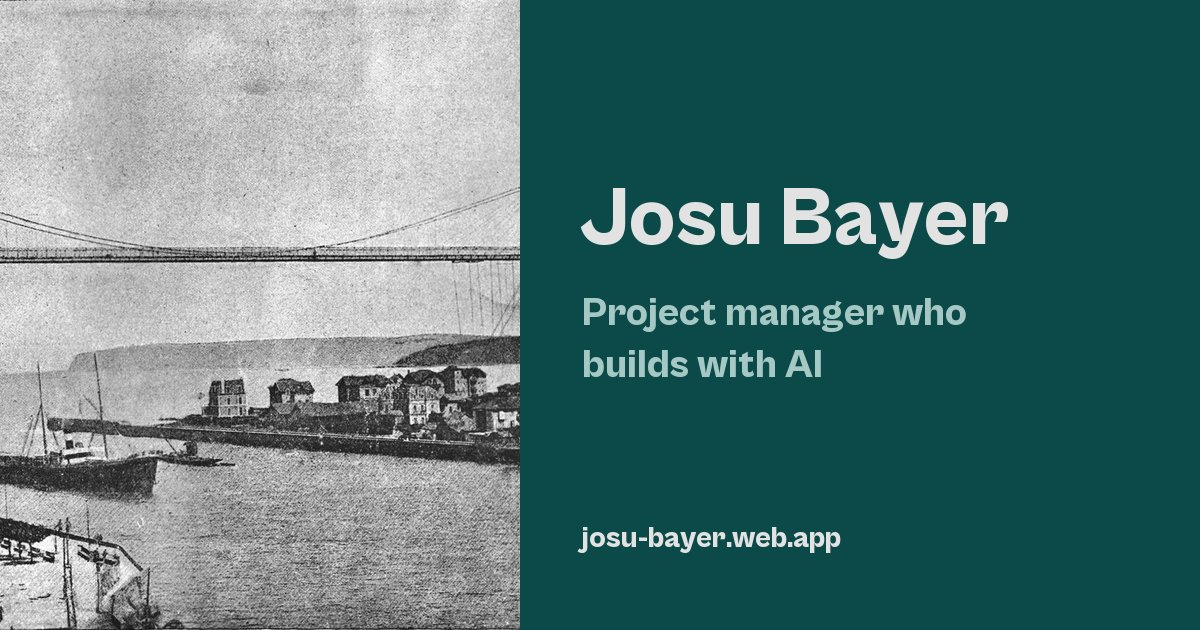
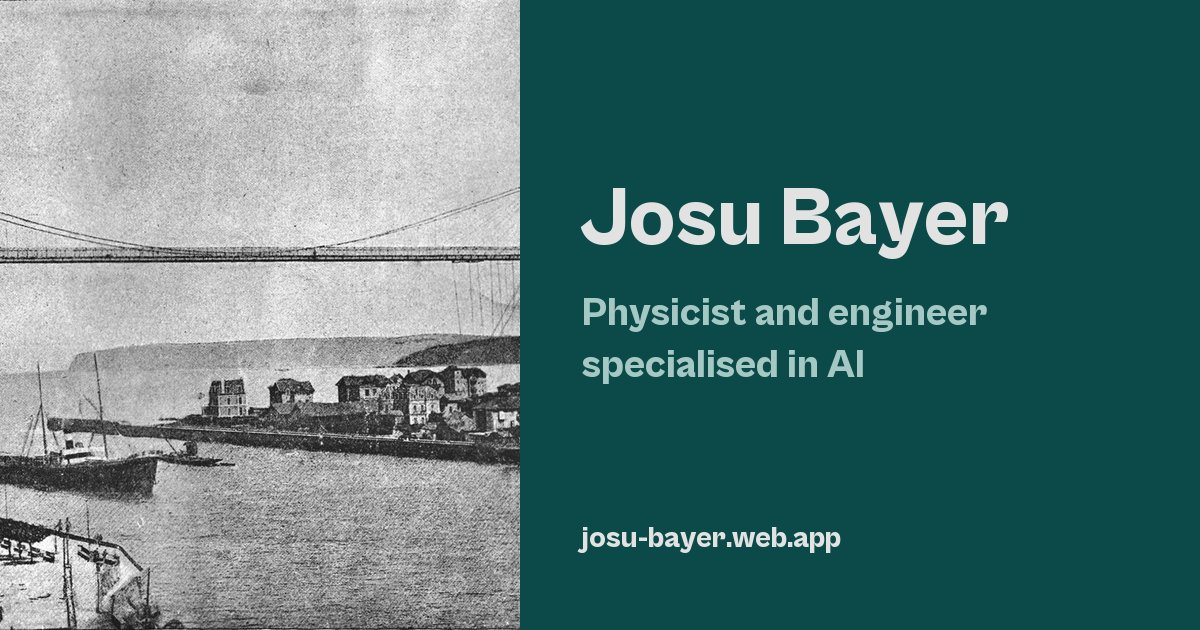
Site: simpler About text, updated description and share image

Changed region(s): [[0.4625, 0.4825, 0.8325, 0.6032]]

diff --git a/site/public/es/index.html b/site/public/es/index.html
@@ -4,7 +4,7 @@
 <meta charset="utf-8">
 <meta name="viewport" content="width=device-width, initial-scale=1">
 <title>Josu Bayer, físico e ingeniero especializado en IA</title>
-<meta name="description" content="Físico e ingeniero electrónico de Bizkaia. Proyectos liderados, investigación y pequeñas aplicaciones.">
+<meta name="description" content="Físico e ingeniero electrónico de Bizkaia. Investigación en IA, proyectos coordinados y pequeñas aplicaciones.">
 <meta name="theme-color" content="#0c4a4a" media="(prefers-color-scheme: light)">
 <meta name="theme-color" content="#0e1819" media="(prefers-color-scheme: dark)">
 <meta name="color-scheme" content="light dark">
@@ -15,7 +15,7 @@
 <meta property="og:type" content="profile">
 <meta property="og:site_name" content="Josu Bayer">
 <meta property="og:title" content="Josu Bayer, físico e ingeniero especializado en IA">
-<meta property="og:description" content="Físico e ingeniero electrónico de Bizkaia. Proyectos liderados, investigación y pequeñas aplicaciones.">
+<meta property="og:description" content="Físico e ingeniero electrónico de Bizkaia. Investigación en IA, proyectos coordinados y pequeñas aplicaciones.">
 <meta property="og:url" content="https://josu-bayer.web.app/es/">
 <meta property="og:image" content="https://josu-bayer.web.app/img/og.jpg">
 <meta property="og:image:width" content="1200">
@@ -28,7 +28,7 @@
 <meta property="profile:last_name" content="Bayer Agirre">
 <meta name="twitter:card" content="summary_large_image">
 <meta name="author" content="Josu Bayer Agirre">
-<script type="application/ld+json">{"@context": "https://schema.org", "@type": "Person", "name": "Josu Bayer Agirre", "alternateName": "Josu Bayer", "url": "https://josu-bayer.web.app/", "image": "https://josu-bayer.web.app/img/josu-2026-12.jpg", "jobTitle": "Físico e ingeniero electrónico, máster en IA", "email": "mailto:bayer.josu@gmail.com", "address": {"@type": "PostalAddress", "addressRegion": "Bizkaia", "addressCountry": "ES"}, "alumniOf": {"@type": "CollegeOrUniversity", "name": "UPV/EHU"}, "sameAs": ["https://github.com/josu-bayer", "https://www.linkedin.com/in/josu-bayer-agirre-090678208/"]}</script>
+<script type="application/ld+json">{"@context": "https://schema.org", "@type": "Person", "name": "Josu Bayer Agirre", "alternateName": "Josu Bayer", "url": "https://josu-bayer.web.app/", "image": "https://josu-bayer.web.app/img/josu-2026-12.jpg", "jobTitle": "Físico e ingeniero electrónico, máster en IA, coordinación de proyectos", "email": "mailto:bayer.josu@gmail.com", "address": {"@type": "PostalAddress", "addressRegion": "Bizkaia", "addressCountry": "ES"}, "alumniOf": {"@type": "CollegeOrUniversity", "name": "UPV/EHU"}, "sameAs": ["https://github.com/josu-bayer", "https://www.linkedin.com/in/josu-bayer-agirre-090678208/"]}</script>
 <link rel="alternate" hreflang="en" href="https://josu-bayer.web.app/">
 <link rel="alternate" hreflang="eu" href="https://josu-bayer.web.app/eu/">
 <link rel="alternate" hreflang="es" href="https://josu-bayer.web.app/es/">
@@ -55,9 +55,9 @@
   <h1 class="hero">Investigo y construyo<br>inteligencia artificial.</h1>
   <h2 class="sh rv">Sobre mí</h2>
   <div class="story rv">
-    <p><mark class="hl3">Soy Josu Bayer</mark>, físico e ingeniero electrónico de <mark class="hl2">Bizkaia</mark>. Hice un doble grado en la UPV/EHU y después un <mark class="hl1">máster en IA y tecnología del lenguaje</mark>. Me dedico a la <mark class="hl1">gestión de proyectos</mark>, y codirigí <mark class="hl2">ENEF 2025</mark>, un congreso nacional para 200 estudiantes de física, para el que conseguí <mark class="hl1">más de 80.000 €</mark>. Las aplicaciones de abajo las he construido yo y las uso.</p>
+    <p><mark class="hl3">Soy Josu Bayer</mark>, físico e ingeniero electrónico de <mark class="hl2">Bizkaia</mark>. Hice un doble grado en la UPV/EHU y después un <mark class="hl1">máster en IA y tecnología del lenguaje</mark>. Además de la investigación, disfruto <mark class="hl1">organizando y coordinando proyectos</mark>. Codirigí <mark class="hl2">ENEF 2025</mark>, un congreso nacional para 200 estudiantes de física, y entre todos reunimos <mark class="hl1">más de 80.000 €</mark>. Las aplicaciones de abajo las he construido yo y las uso.</p>
   </div>
-  <p class="cta rv"><a href="#contact"><mark class="hl1">¿Buscas a alguien que sepa de IA y pueda dirigir también el proyecto? Saluda.</mark></a></p>
+  <p class="cta rv"><a href="#contact"><mark class="hl1">¿Buscas a alguien que sepa de IA y que además disfrute organizando proyectos? Saluda.</mark></a></p>
 </section>
 
 <figure class="band" data-drift>

diff --git a/site/public/eu/index.html b/site/public/eu/index.html
@@ -4,7 +4,7 @@
 <meta charset="utf-8">
 <meta name="viewport" content="width=device-width, initial-scale=1">
 <title>Josu Bayer, AAn espezializatutako fisikaria eta ingeniaria</title>
-<meta name="description" content="Bizkaiko fisikaria eta ingeniari elektronikoa. Zuzendutako proiektuak, ikerketa eta aplikazio txikiak.">
+<meta name="description" content="Bizkaiko fisikaria eta ingeniari elektronikoa. AAren ikerketa, koordinatutako proiektuak eta aplikazio txikiak.">
 <meta name="theme-color" content="#0c4a4a" media="(prefers-color-scheme: light)">
 <meta name="theme-color" content="#0e1819" media="(prefers-color-scheme: dark)">
 <meta name="color-scheme" content="light dark">
@@ -15,7 +15,7 @@
 <meta property="og:type" content="profile">
 <meta property="og:site_name" content="Josu Bayer">
 <meta property="og:title" content="Josu Bayer, AAn espezializatutako fisikaria eta ingeniaria">
-<meta property="og:description" content="Bizkaiko fisikaria eta ingeniari elektronikoa. Zuzendutako proiektuak, ikerketa eta aplikazio txikiak.">
+<meta property="og:description" content="Bizkaiko fisikaria eta ingeniari elektronikoa. AAren ikerketa, koordinatutako proiektuak eta aplikazio txikiak.">
 <meta property="og:url" content="https://josu-bayer.web.app/eu/">
 <meta property="og:image" content="https://josu-bayer.web.app/img/og.jpg">
 <meta property="og:image:width" content="1200">
@@ -28,7 +28,7 @@
 <meta property="profile:last_name" content="Bayer Agirre">
 <meta name="twitter:card" content="summary_large_image">
 <meta name="author" content="Josu Bayer Agirre">
-<script type="application/ld+json">{"@context": "https://schema.org", "@type": "Person", "name": "Josu Bayer Agirre", "alternateName": "Josu Bayer", "url": "https://josu-bayer.web.app/", "image": "https://josu-bayer.web.app/img/josu-2026-12.jpg", "jobTitle": "Fisikaria eta ingeniari elektronikoa, AAko masterra", "email": "mailto:bayer.josu@gmail.com", "address": {"@type": "PostalAddress", "addressRegion": "Bizkaia", "addressCountry": "ES"}, "alumniOf": {"@type": "CollegeOrUniversity", "name": "UPV/EHU"}, "sameAs": ["https://github.com/josu-bayer", "https://www.linkedin.com/in/josu-bayer-agirre-090678208/"]}</script>
+<script type="application/ld+json">{"@context": "https://schema.org", "@type": "Person", "name": "Josu Bayer Agirre", "alternateName": "Josu Bayer", "url": "https://josu-bayer.web.app/", "image": "https://josu-bayer.web.app/img/josu-2026-12.jpg", "jobTitle": "Fisikaria eta ingeniari elektronikoa, AAko masterra, proiektuen koordinazioa", "email": "mailto:bayer.josu@gmail.com", "address": {"@type": "PostalAddress", "addressRegion": "Bizkaia", "addressCountry": "ES"}, "alumniOf": {"@type": "CollegeOrUniversity", "name": "UPV/EHU"}, "sameAs": ["https://github.com/josu-bayer", "https://www.linkedin.com/in/josu-bayer-agirre-090678208/"]}</script>
 <link rel="alternate" hreflang="en" href="https://josu-bayer.web.app/">
 <link rel="alternate" hreflang="eu" href="https://josu-bayer.web.app/eu/">
 <link rel="alternate" hreflang="es" href="https://josu-bayer.web.app/es/">
@@ -55,9 +55,9 @@
   <h1 class="hero">AA ikertzen<br>eta eraikitzen dut.</h1>
   <h2 class="sh rv">Niri buruz</h2>
   <div class="story rv">
-    <p><mark class="hl3">Josu Bayer naiz</mark>, <mark class="hl2">Bizkaiko</mark> fisikaria eta ingeniari elektronikoa. UPV/EHUn ikasketa bikoitza egin nuen, eta gero <mark class="hl1">AAko eta hizkuntza-teknologiako masterra</mark>. <mark class="hl1">Proiektuen kudeaketan</mark> nabil, eta <mark class="hl2">ENEF 2025</mark> zuzendu nuen, 200 fisika-ikasleren kongresu nazionala, eta <mark class="hl1">80.000 € baino gehiago</mark> lortu genituen. Behekoak neuk egin eta erabiltzen ditudan aplikazioak dira.</p>
+    <p><mark class="hl3">Josu Bayer naiz</mark>, <mark class="hl2">Bizkaiko</mark> fisikaria eta ingeniari elektronikoa. UPV/EHUn ikasketa bikoitza egin nuen, eta gero <mark class="hl1">AAko eta hizkuntza-teknologiako masterra</mark>. Ikerketaz gain, <mark class="hl1">proiektuak antolatzea eta koordinatzea</mark> gustatzen zait. <mark class="hl2">ENEF 2025</mark> elkarrekin zuzendu genuen, 200 fisika-ikasleren kongresu nazionala, eta <mark class="hl1">80.000 € baino gehiago</mark> lortu genituen. Behekoak neuk egin eta erabiltzen ditudan aplikazioak dira.</p>
   </div>
-  <p class="cta rv"><a href="#contact"><mark class="hl1">AA ezagutzen duen eta proiektua ere zuzendu dezakeen norbait behar al duzu? Esan kaixo.</mark></a></p>
+  <p class="cta rv"><a href="#contact"><mark class="hl1">AA ezagutzen duen eta proiektuak antolatzea gustatzen zaion norbait behar al duzu? Esan kaixo.</mark></a></p>
 </section>
 
 <figure class="band" data-drift>

diff --git a/site/public/index.html b/site/public/index.html
@@ -4,7 +4,7 @@
 <meta charset="utf-8">
 <meta name="viewport" content="width=device-width, initial-scale=1">
 <title>Josu Bayer, physicist and engineer specialised in AI</title>
-<meta name="description" content="Physicist and electronic engineer from Bizkaia. Projects led, research and small apps.">
+<meta name="description" content="Physicist and electronic engineer from Bizkaia. AI research, projects coordinated and small apps.">
 <meta name="theme-color" content="#0c4a4a" media="(prefers-color-scheme: light)">
 <meta name="theme-color" content="#0e1819" media="(prefers-color-scheme: dark)">
 <meta name="color-scheme" content="light dark">
@@ -15,7 +15,7 @@
 <meta property="og:type" content="profile">
 <meta property="og:site_name" content="Josu Bayer">
 <meta property="og:title" content="Josu Bayer, physicist and engineer specialised in AI">
-<meta property="og:description" content="Physicist and electronic engineer from Bizkaia. Projects led, research and small apps.">
+<meta property="og:description" content="Physicist and electronic engineer from Bizkaia. AI research, projects coordinated and small apps.">
 <meta property="og:url" content="https://josu-bayer.web.app/">
 <meta property="og:image" content="https://josu-bayer.web.app/img/og.jpg">
 <meta property="og:image:width" content="1200">
@@ -28,7 +28,7 @@
 <meta property="profile:last_name" content="Bayer Agirre">
 <meta name="twitter:card" content="summary_large_image">
 <meta name="author" content="Josu Bayer Agirre">
-<script type="application/ld+json">{"@context": "https://schema.org", "@type": "Person", "name": "Josu Bayer Agirre", "alternateName": "Josu Bayer", "url": "https://josu-bayer.web.app/", "image": "https://josu-bayer.web.app/img/josu-2026-12.jpg", "jobTitle": "Physicist and electronic engineer, master's in AI", "email": "mailto:bayer.josu@gmail.com", "address": {"@type": "PostalAddress", "addressRegion": "Bizkaia", "addressCountry": "ES"}, "alumniOf": {"@type": "CollegeOrUniversity", "name": "UPV/EHU"}, "sameAs": ["https://github.com/josu-bayer", "https://www.linkedin.com/in/josu-bayer-agirre-090678208/"]}</script>
+<script type="application/ld+json">{"@context": "https://schema.org", "@type": "Person", "name": "Josu Bayer Agirre", "alternateName": "Josu Bayer", "url": "https://josu-bayer.web.app/", "image": "https://josu-bayer.web.app/img/josu-2026-12.jpg", "jobTitle": "Physicist and electronic engineer, master's in AI, project coordination", "email": "mailto:bayer.josu@gmail.com", "address": {"@type": "PostalAddress", "addressRegion": "Bizkaia", "addressCountry": "ES"}, "alumniOf": {"@type": "CollegeOrUniversity", "name": "UPV/EHU"}, "sameAs": ["https://github.com/josu-bayer", "https://www.linkedin.com/in/josu-bayer-agirre-090678208/"]}</script>
 <link rel="alternate" hreflang="en" href="https://josu-bayer.web.app/">
 <link rel="alternate" hreflang="eu" href="https://josu-bayer.web.app/eu/">
 <link rel="alternate" hreflang="es" href="https://josu-bayer.web.app/es/">
@@ -55,9 +55,9 @@
   <h1 class="hero">I research and build<br>artificial intelligence.</h1>
   <h2 class="sh rv">About</h2>
   <div class="story rv">
-    <p><mark class="hl3">I'm Josu Bayer</mark>, a physicist and electronic engineer from <mark class="hl2">Bizkaia</mark>. I did a double degree at UPV/EHU and then a <mark class="hl1">master's in AI and language technology</mark>. I am into <mark class="hl1">project management</mark>, and I co-directed <mark class="hl2">ENEF 2025</mark>, a national congress for 200 physics students, and raised <mark class="hl1">more than €80,000</mark> for it. The apps below are ones I built and use.</p>
+    <p><mark class="hl3">I'm Josu Bayer</mark>, a physicist and electronic engineer from <mark class="hl2">Bizkaia</mark>. I did a double degree at UPV/EHU and then a <mark class="hl1">master's in AI and language technology</mark>. Alongside the research, I enjoy <mark class="hl1">organising and coordinating projects</mark>. I co-directed <mark class="hl2">ENEF 2025</mark>, a national congress for 200 physics students, and together we raised <mark class="hl1">more than €80,000</mark> for it. The apps below are ones I built and use.</p>
   </div>
-  <p class="cta rv"><a href="#contact"><mark class="hl1">Looking for someone who knows AI and can lead the project too? Say hello.</mark></a></p>
+  <p class="cta rv"><a href="#contact"><mark class="hl1">Looking for someone who knows AI and also likes organising projects? Say hello.</mark></a></p>
 </section>
 
 <figure class="band" data-drift>

diff --git a/site/content.py b/site/content.py
@@ -156,14 +156,14 @@ BACKGROUND = {
 T = {
     "en": dict(
         lang="en", title="Josu Bayer, physicist and engineer specialised in AI",
-        desc="Physicist and electronic engineer from Bizkaia. Projects led, research and small apps.",
+        desc="Physicist and electronic engineer from Bizkaia. AI research, projects coordinated and small apps.",
         skip="Skip to content", hello="Say hello", other_lang="Euskara", other_href="eu/",
         self_href="./", sentence="Josu Bayer, physicist and electronic engineer from Bizkaia.", h1=("I research and build", "artificial intelligence."),
         h_about="About", h_work="Work", h_bg="Background", h_contact="Contact",
         about=[
-            "<mark class=\"hl3\">I'm Josu Bayer</mark>, a physicist and electronic engineer from <mark class=\"hl2\">Bizkaia</mark>. I did a double degree at UPV/EHU and then a <mark class=\"hl1\">master's in AI and language technology</mark>. I am into <mark class=\"hl1\">project management</mark>, and I co-directed <mark class=\"hl2\">ENEF 2025</mark>, a national congress for 200 physics students, and raised <mark class=\"hl1\">more than €80,000</mark> for it. The apps below are ones I built and use."
+            "<mark class=\"hl3\">I'm Josu Bayer</mark>, a physicist and electronic engineer from <mark class=\"hl2\">Bizkaia</mark>. I did a double degree at UPV/EHU and then a <mark class=\"hl1\">master's in AI and language technology</mark>. Alongside the research, I enjoy <mark class=\"hl1\">organising and coordinating projects</mark>. I co-directed <mark class=\"hl2\">ENEF 2025</mark>, a national congress for 200 physics students, and together we raised <mark class=\"hl1\">more than €80,000</mark> for it. The apps below are ones I built and use."
         ],
-        about_cta="Looking for someone who knows AI and can lead the project too? Say hello.",
+        about_cta="Looking for someone who knows AI and also likes organising projects? Say hello.",
         chips=[("all", "Everything"), ("m", "Leading"), ("a", "AI and research"), ("p", "Apps")],
         view_repo="Open the code",
         bridge_cap="The Bizkaia Bridge, opened in 1893, carries people across the estuary on a hanging gondola. It joins two banks without hiding either, the way I work between leading people and building AI.",
@@ -180,14 +180,14 @@ T = {
     ),
     "eu": dict(
         lang="eu", title="Josu Bayer, AAn espezializatutako fisikaria eta ingeniaria",
-        desc="Bizkaiko fisikaria eta ingeniari elektronikoa. Zuzendutako proiektuak, ikerketa eta aplikazio txikiak.",
+        desc="Bizkaiko fisikaria eta ingeniari elektronikoa. AAren ikerketa, koordinatutako proiektuak eta aplikazio txikiak.",
         skip="Joan edukira", hello="Esan kaixo", other_lang="English", other_href="../",
         self_href="./", sentence="Josu Bayer, Bizkaiko fisikaria eta ingeniari elektronikoa.", h1=("AA ikertzen", "eta eraikitzen dut"),
         h_about="Niri buruz", h_work="Lana", h_bg="Ibilbidea", h_contact="Harremana",
         about=[
-            "<mark class=\"hl3\">Josu Bayer naiz</mark>, <mark class=\"hl2\">Bizkaiko</mark> fisikaria eta ingeniari elektronikoa. UPV/EHUn ikasketa bikoitza egin nuen, eta gero <mark class=\"hl1\">AAko eta hizkuntza-teknologiako masterra</mark>. <mark class=\"hl1\">Proiektuen kudeaketan</mark> nabil, eta <mark class=\"hl2\">ENEF 2025</mark> zuzendu nuen, 200 fisika-ikasleren kongresu nazionala, eta <mark class=\"hl1\">80.000 € baino gehiago</mark> lortu genituen. Behekoak neuk egin eta erabiltzen ditudan aplikazioak dira."
+            "<mark class=\"hl3\">Josu Bayer naiz</mark>, <mark class=\"hl2\">Bizkaiko</mark> fisikaria eta ingeniari elektronikoa. UPV/EHUn ikasketa bikoitza egin nuen, eta gero <mark class=\"hl1\">AAko eta hizkuntza-teknologiako masterra</mark>. Ikerketaz gain, <mark class=\"hl1\">proiektuak antolatzea eta koordinatzea</mark> gustatzen zait. <mark class=\"hl2\">ENEF 2025</mark> elkarrekin zuzendu genuen, 200 fisika-ikasleren kongresu nazionala, eta <mark class=\"hl1\">80.000 € baino gehiago</mark> lortu genituen. Behekoak neuk egin eta erabiltzen ditudan aplikazioak dira."
         ],
-        about_cta="AA ezagutzen duen eta proiektua ere zuzendu dezakeen norbait behar al duzu? Esan kaixo.",
+        about_cta="AA ezagutzen duen eta proiektuak antolatzea gustatzen zaion norbait behar al duzu? Esan kaixo.",
         chips=[("all", "Dena"), ("m", "Zuzendaritza"), ("a", "AA eta ikerketa"), ("p", "Aplikazioak")],
         view_repo="Ireki kodea",
         bridge_cap="Bizkaiko Zubiak, 1893an irekia, jendea itsasadarraren beste aldera eramaten du zintzilik doan gondola batean. Bi ertz lotzen ditu bata ezkutatu gabe, nik bezala, jendea zuzentzearen eta AA eraikitzearen artean.",
@@ -276,14 +276,14 @@ BACKGROUND["es"] = [
 
 T["es"] = dict(
     lang="es", title="Josu Bayer, físico e ingeniero especializado en IA",
-    desc="Físico e ingeniero electrónico de Bizkaia. Proyectos liderados, investigación y pequeñas aplicaciones.",
+    desc="Físico e ingeniero electrónico de Bizkaia. Investigación en IA, proyectos coordinados y pequeñas aplicaciones.",
     skip="Saltar al contenido", hello="Saluda", other_lang="Castellano", other_href="es/",
     self_href="./", sentence="Josu Bayer, físico e ingeniero electrónico de Bizkaia.", h1=("Investigo y construyo", "inteligencia artificial."),
     h_about="Sobre mí", h_work="Trabajo", h_bg="Trayectoria", h_contact="Contacto",
     about=[
-        "<mark class=\"hl3\">Soy Josu Bayer</mark>, físico e ingeniero electrónico de <mark class=\"hl2\">Bizkaia</mark>. Hice un doble grado en la UPV/EHU y después un <mark class=\"hl1\">máster en IA y tecnología del lenguaje</mark>. Me dedico a la <mark class=\"hl1\">gestión de proyectos</mark>, y codirigí <mark class=\"hl2\">ENEF 2025</mark>, un congreso nacional para 200 estudiantes de física, para el que conseguí <mark class=\"hl1\">más de 80.000 €</mark>. Las aplicaciones de abajo las he construido yo y las uso."
+        "<mark class=\"hl3\">Soy Josu Bayer</mark>, físico e ingeniero electrónico de <mark class=\"hl2\">Bizkaia</mark>. Hice un doble grado en la UPV/EHU y después un <mark class=\"hl1\">máster en IA y tecnología del lenguaje</mark>. Además de la investigación, disfruto <mark class=\"hl1\">organizando y coordinando proyectos</mark>. Codirigí <mark class=\"hl2\">ENEF 2025</mark>, un congreso nacional para 200 estudiantes de física, y entre todos reunimos <mark class=\"hl1\">más de 80.000 €</mark>. Las aplicaciones de abajo las he construido yo y las uso."
     ],
-    about_cta="¿Buscas a alguien que sepa de IA y pueda dirigir también el proyecto? Saluda.",
+    about_cta="¿Buscas a alguien que sepa de IA y que además disfrute organizando proyectos? Saluda.",
     chips=[("all", "Todo"), ("m", "Liderazgo"), ("a", "IA e investigación"), ("p", "Aplicaciones")],
     view_repo="Abrir el código",
     bridge_cap="El Puente de Bizkaia, inaugurado en 1893, cruza a la gente por la ría en una góndola colgante. Une dos orillas sin ocultar ninguna, como yo trabajo entre dirigir personas y construir IA.",
@@ -328,13 +328,13 @@ SCREENS = [
 EXTRA = {
     "en": dict(h_screens="The apps, as they open on a phone", og_locale="en_GB",
                og_title="Josu Bayer, physicist and engineer specialised in AI",
-               job="Physicist and electronic engineer, master's in AI", screens_label="App screens, scroll sideways"),
+               job="Physicist and electronic engineer, master's in AI, project coordination", screens_label="App screens, scroll sideways"),
     "eu": dict(h_screens="Aplikazioak, mugikorrean irekitzean", og_locale="eu_ES",
                og_title="Josu Bayer, AAn espezializatutako fisikaria eta ingeniaria",
-               job="Fisikaria eta ingeniari elektronikoa, AAko masterra", screens_label="Aplikazioen pantailak, alboetara korritu"),
+               job="Fisikaria eta ingeniari elektronikoa, AAko masterra, proiektuen koordinazioa", screens_label="Aplikazioen pantailak, alboetara korritu"),
     "es": dict(h_screens="Las aplicaciones, tal como se abren en el móvil", og_locale="es_ES",
                og_title="Josu Bayer, físico e ingeniero especializado en IA",
-               job="Físico e ingeniero electrónico, máster en IA", screens_label="Pantallas de las aplicaciones, desplaza a los lados"),
+               job="Físico e ingeniero electrónico, máster en IA, coordinación de proyectos", screens_label="Pantallas de las aplicaciones, desplaza a los lados"),
 }
 for _k, _v in EXTRA.items():
     T[_k].update(_v)

diff --git a/site/irudiak_optimizatu.py b/site/irudiak_optimizatu.py
@@ -44,8 +44,8 @@ def letra(n):
     except OSError:
         return ImageFont.truetype("arialbd.ttf", n)
 d.text((580, 170), "Josu Bayer", font=letra(84), fill="#e2e2e2")
-d.text((582, 290), "Project manager who", font=letra(40), fill="#a6c8c5")
-d.text((582, 342), "builds with AI", font=letra(40), fill="#a6c8c5")
+d.text((582, 290), "Physicist and engineer", font=letra(40), fill="#a6c8c5")
+d.text((582, 342), "specialised in AI", font=letra(40), fill="#a6c8c5")
 d.text((582, 520), "josu-bayer.web.app", font=letra(30), fill="#e2e2e2")
 og.save(os.path.join(IMG, "og.jpg"), "JPEG", quality=85, optimize=True, progressive=True)
 # Ikonoak: "jb" letrak kolore nagusiaren gainean (favicon.svg eskuz idatzia dago public/ karpetan)
